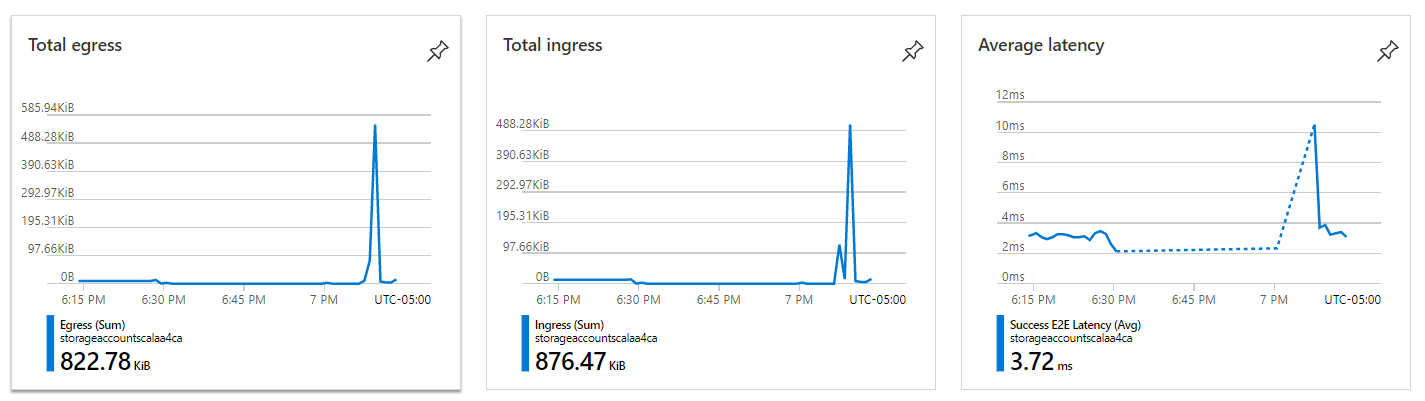
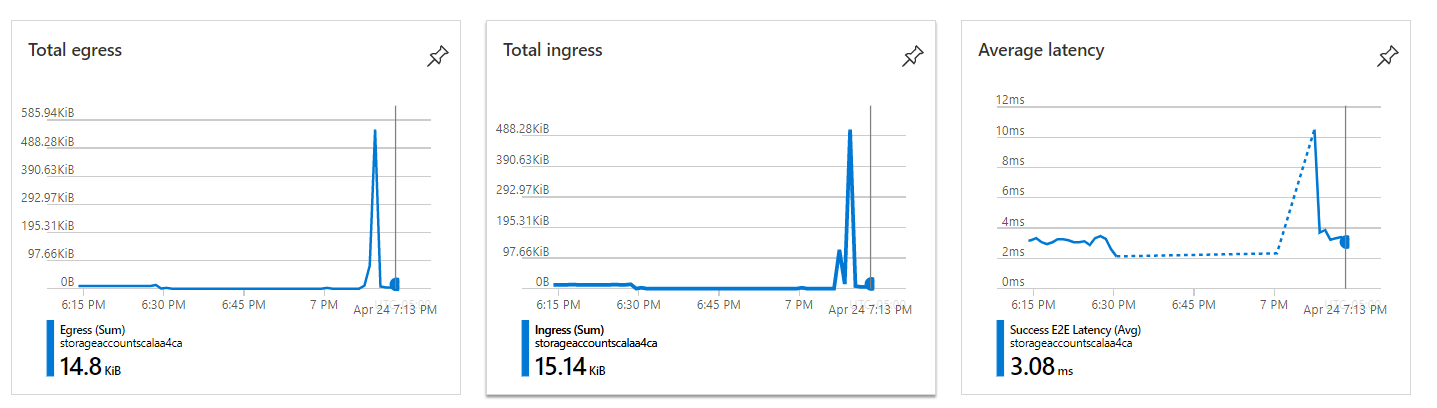
Readme acabado

diff --git a/README.md b/README.md
@@ -189,14 +189,13 @@ Las facturas de Azure Functions se basan en el consumo de recursos y las ejecuci
 
 * Informe
 
-Primeramente se realizo una prueba con el siguiente comando para poder verificar el funcionamiento correcto:
-
+Primeramente se realizo una prueba con el siguiente comando para poder verificar el funcionamiento correcto, despues de haber realizado la respectiva modificiacion de la coleccion POSTMAN para realizar 10 solicitudes:
 
 ````
 newman run ARSW_LOAD-BALANCING_AZURE.postman_collection.json -e [ARSW_LOAD-BALANCING_AZURE].postman_environment.json -n 10 &
 ````
 
-Obteniendo como resultado lo siguiente:
+Obteniendo como resultado lo siguiente bajo el analisis de **Azure** :
 
 ![](images/solucion/pruebaPostman1.PNG)
 
@@ -211,7 +210,7 @@ Obteniendo como resultado lo siguiente:
 ![](images/solucion/grafica4Postman1.PNG)
 
 
-Posteriormente se realizo la prueba con este comando anterior pero 10 veces utilizando claro esta **Newman** y la adicion **&** para encadenar las 10 solicitudes , los resultados obtenidos se muestran el la seccion del *informe*
+Posteriormente se realizo la prueba con este comando anterior pero 10 veces utilizando claro esta **Newman** y la adicion **&** para encadenar las 10 solicitudes
 
 ````
 newman run ARSW_LOAD-BALANCING_AZURE.postman_collection.json -e [ARSW_LOAD-BALANCING_AZURE].postman_environment.json -n 10 &
@@ -226,6 +225,10 @@ newman run ARSW_LOAD-BALANCING_AZURE.postman_collection.json -e [ARSW_LOAD-BALAN
 newman run ARSW_LOAD-BALANCING_AZURE.postman_collection.json -e [ARSW_LOAD-BALANCING_AZURE].postman_environment.json -n 10 
 ````
 
+Una vez realizado esto se tuvo como resultado que las 10 solicitudes no se realizaron en el primer intento, ya que en la sexta (6) se detuvo y no cargo mas, por lo que se realizo un segundo intento en el que si fue posible que se realizaran las 10 solicitudes obteniendo como resultado lo siguiente: 
+
+**Nota:** Estas solicitudes tomaron un tiempo considerable
+
 ![](images/solucion/grafica1Postman2.PNG)
 ![](images/solucion/grafica2Postman2.PNG)
 ![](images/solucion/grafica3Postman2.PNG)
@@ -234,15 +237,62 @@ newman run ARSW_LOAD-BALANCING_AZURE.postman_collection.json -e [ARSW_LOAD-BALAN
 ![](images/solucion/grafica6Postman2.PNG)
 ![](images/solucion/grafica7Postman2.PNG)
 
+### Conclusiones punto 5:
+
++ El 100% de las solicitudes fue posible en el segundo intento que tuvieran exito
++ El consumo de CPU durante el procesamiento de las solicitudes se sostuvo bastante alto, por lo cual en esta parte no cumplia con lo propuesto por el enunciado del laboratorio
++ Apesar de que la implementacion de Fibonacci App es ineficiente en recursos y tiempo, cuando se despliega en un modelo Serverless se obtiene un resultado de exito en el 100% de los casos, lo que no sucedia en el Laboratorio anterior, lo cual demuestra la efectividad del servicio de **Azure Functions**
+
+Posteriormente se realizo la modificacion solicitada en el punto 6 donde se realizo la modificacion de *index.js* dandole un enfoque recursivo con memorizacion, se realizaron pruebas varias veces obteniendo el siguiente resultado:
+
+**Nota:** En todas las graficas es posible apreciar la diferencia entre el comportamiento obtenido en el punto 5 y el comportamiento obtenido en el punto 6, ya que se ve el movimiento de las graficas, sin embargo cabe aclarar que el punto registrado en cada una de las graficas corresponde al desarrollo con la modificacion recursiva
+
+Se realizo primera mente la prueba con el siguiente comando
+
+````
+newman run ARSW_LOAD-BALANCING_AZURE.postman_collection.json -e [ARSW_LOAD-BALANCING_AZURE].postman_environment.json -n 10 &
+````
+
+![](images/solucion/10graficas.PNG)
+
+Es posible observar que se ejecutaron **100 Solicitudes**
+Obteniendo los siguiente resultados:
 
 ![](images/solucion/grafica1Postman3.PNG)
-![](images/solucion/grafica2Postman3.PNG)
 ![](images/solucion/grafica3Postman3.PNG)
 ![](images/solucion/grafica4Postman3.PNG)
 ![](images/solucion/grafica5Postman3.PNG)
 ![](images/solucion/grafica6Postman3.PNG)
 ![](images/solucion/grafica7Postman3.PNG)
 ![](images/solucion/grafica8Postman3.PNG)
+
+y posteriormente se generar 100 solicitudes con el siguiente comando:
+
+````
+newman run ARSW_LOAD-BALANCING_AZURE.postman_collection.json -e [ARSW_LOAD-BALANCING_AZURE].postman_environment.json -n 10 &
+newman run ARSW_LOAD-BALANCING_AZURE.postman_collection.json -e [ARSW_LOAD-BALANCING_AZURE].postman_environment.json -n 10 &
+newman run ARSW_LOAD-BALANCING_AZURE.postman_collection.json -e [ARSW_LOAD-BALANCING_AZURE].postman_environment.json -n 10 &
+newman run ARSW_LOAD-BALANCING_AZURE.postman_collection.json -e [ARSW_LOAD-BALANCING_AZURE].postman_environment.json -n 10 &
+newman run ARSW_LOAD-BALANCING_AZURE.postman_collection.json -e [ARSW_LOAD-BALANCING_AZURE].postman_environment.json -n 10 &
+newman run ARSW_LOAD-BALANCING_AZURE.postman_collection.json -e [ARSW_LOAD-BALANCING_AZURE].postman_environment.json -n 10 &
+newman run ARSW_LOAD-BALANCING_AZURE.postman_collection.json -e [ARSW_LOAD-BALANCING_AZURE].postman_environment.json -n 10 &
+newman run ARSW_LOAD-BALANCING_AZURE.postman_collection.json -e [ARSW_LOAD-BALANCING_AZURE].postman_environment.json -n 10 &
+newman run ARSW_LOAD-BALANCING_AZURE.postman_collection.json -e [ARSW_LOAD-BALANCING_AZURE].postman_environment.json -n 10 &
+newman run ARSW_LOAD-BALANCING_AZURE.postman_collection.json -e [ARSW_LOAD-BALANCING_AZURE].postman_environment.json -n 10 
+````
+
+![](images/solucion/100graficas.PNG)
+
+Es posible observar que se ejecutaron **100 Solicitudes**
+Obteniendo los siguiente resultados:
+
+![](images/solucion/grafica19Postman3.PNG)
+![](images/solucion/grafica20Postman3.PNG)
+![](images/solucion/grafica21Postman3.PNG)
+![](images/solucion/grafica22Postman3.PNG)
+
+Despues de observar el respectivo analisis generado en las graficas de Azure, ahora se observaran las respectivas salidas obtenidas en las tablas generadas al utilizar newman con la coleccion postman propuesta
+
 ![](images/solucion/grafica9Postman3.PNG)
 ![](images/solucion/grafica10Postman3.PNG)
 ![](images/solucion/grafica11Postman3.PNG)
@@ -253,27 +303,13 @@ newman run ARSW_LOAD-BALANCING_AZURE.postman_collection.json -e [ARSW_LOAD-BALAN
 ![](images/solucion/grafica16Postman3.PNG)
 ![](images/solucion/grafica17Postman3.PNG)
 ![](images/solucion/grafica18Postman3.PNG)
-![](images/solucion/grafica19Postman3.PNG)
-![](images/solucion/grafica20Postman3.PNG)
-![](images/solucion/grafica21Postman3.PNG)
-![](images/solucion/grafica22Postman3.PNG)
 
+Finalmente es posible obsvervar como resultan las graficas despues de cada uno de los ejercicios realizados:
 
-
-![](images/solucion/graficaultima1.PNG)
-![](images/solucion/graficaultima2.PNG)
-![](images/solucion/graficaultima3.PNG)
-![](images/solucion/graficaultima4.PNG)
-![](images/solucion/graficaultima5.PNG)
-![](images/solucion/graficaultima6.PNG)
-
-![](images/solucion/100graficas.PNG)
-
-![](images/solucion/10graficas.PNG)
-
-![](images/solucion/cpuinicial.PNG)
 ![](images/solucion/cpufinal.PNG)
+![](images/solucion/grafica2Postman3.PNG)
 
+Despues de haber pasado 5 minutos, desde la ultima prueba realizada se obtuvieron los siguientes resultados:
 
 ![](images/solucion/ultimapantalla1.PNG)
 ![](images/solucion/ultimapantalla2.PNG)
@@ -282,6 +318,35 @@ newman run ARSW_LOAD-BALANCING_AZURE.postman_collection.json -e [ARSW_LOAD-BALAN
 ![](images/solucion/ultimapantalla5.PNG)
 ![](images/solucion/ultimapantalla6.PNG)
 
+Se adjuntan algunos de los cuadros generados, donde es posible observar que despues de los 5 minutos el tiempo de ejecucion aumento
+
 ![](images/solucion/despues1.PNG)
 ![](images/solucion/despues2.PNG)
 ![](images/solucion/despues3.PNG)
+
+### Conclusiones punto 6:
+
++ El tiempo de respuesta disminuyo de manera considerable y bastante significativamente con la nueva implementacion recursiva con memorizacion
++ El uso de CPU tambien disminuyode manera importante con esta nueva implementacion
++ Al esperar 5 minutos despues de lanzar la ultima prueba, el tiempo de respuesta y el uso de CPU aumentaron, ya que la funcion de almacenamiento se limpia automaticamente por el plan Consumption con el cual se creo la **Azure funcion** que tiene un tiempo limite de 5 minutos
+
+# Control de versiones
+
+por: [Santiago Buitrago](https://github.com/DonSantiagoS) 
+
+Version: 1.0
+Fecha: 20 de Abril 2021
+
+## Autor
+
+* **Santiago Buitrago** - *Laboratorio N°10* - [DonSantiagoS](https://github.com/DonSantiagoS)
+
+See also the list of [contributors](https://github.com/your/project/contributors) who participated in this project.
+
+## Licencia 
+
+This project is licensed under the MIT License - see the [LICENSE.md](LICENSE.md) file for details
+
+## Agradecimientos
+
+* Persistencia en lograr el objetivo
